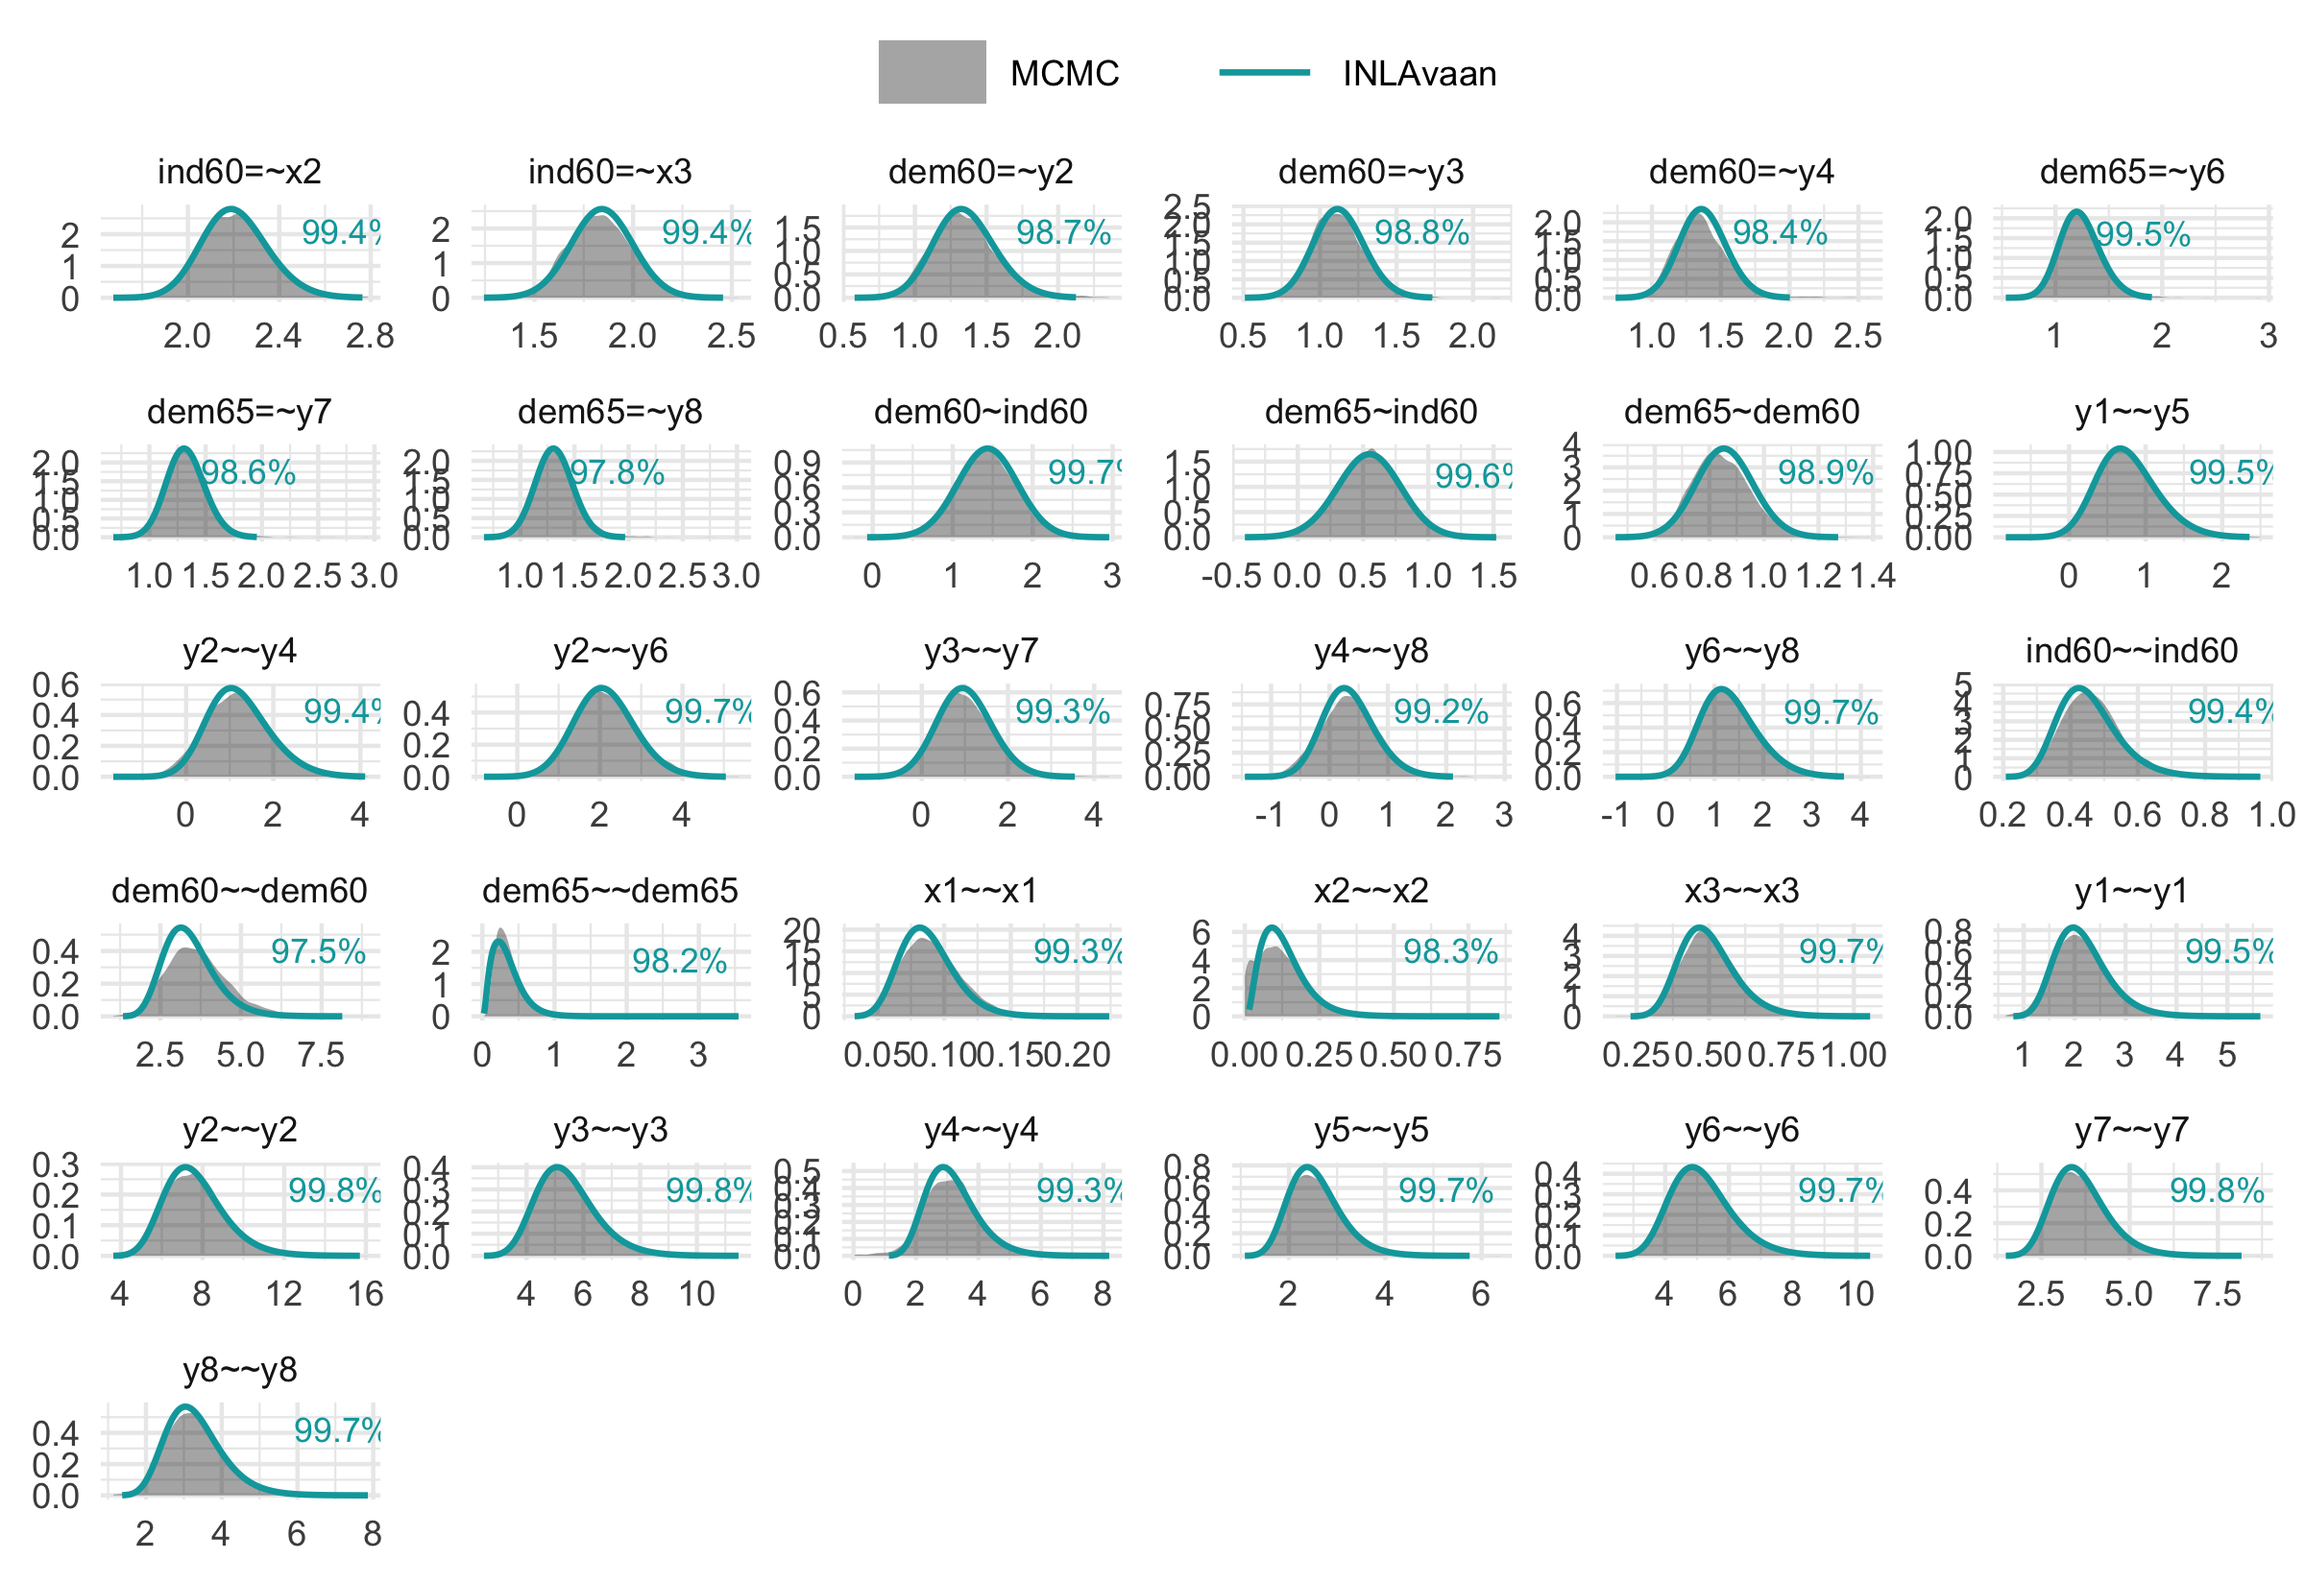
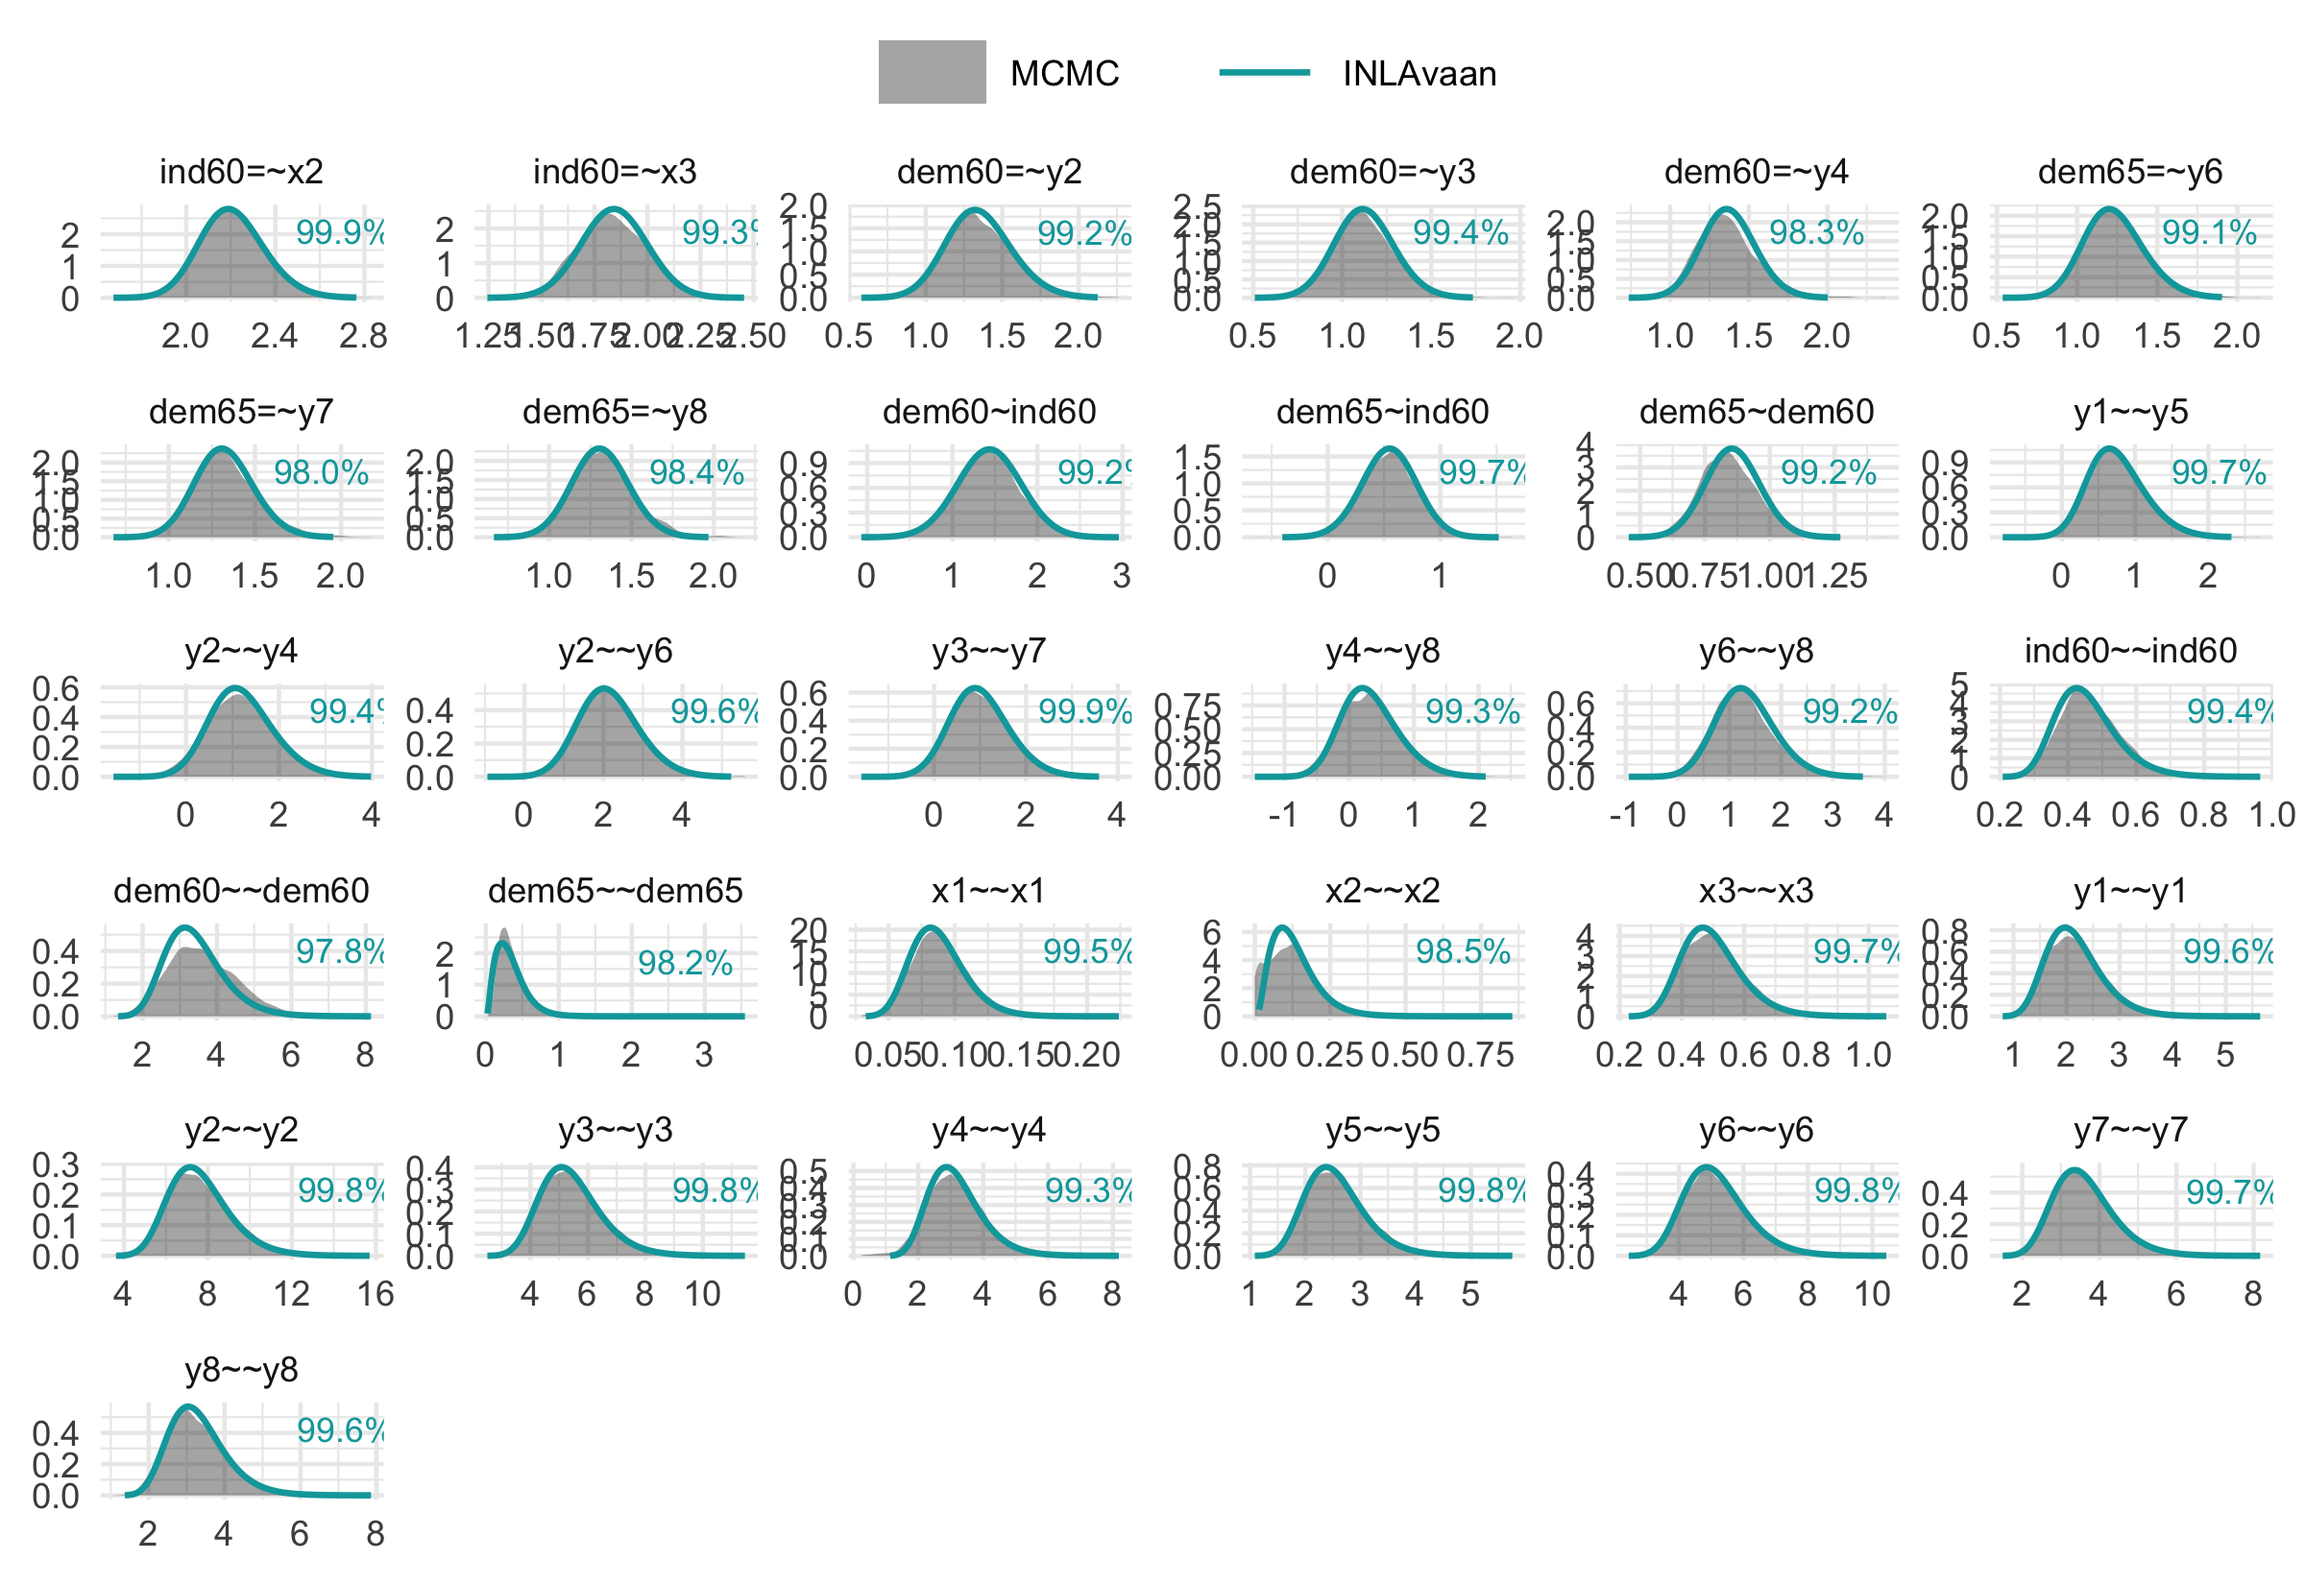
Update README

diff --git a/README.md b/README.md
@@ -64,39 +64,39 @@ utils::data("PoliticalDemocracy", package = "lavaan")
 fit <- asem(model, PoliticalDemocracy)
 #> ℹ Using MVN log-likelihood.
 #> ℹ Finding posterior mode.
-#> ✔ Finding posterior mode. [126ms]
+#> ✔ Finding posterior mode. [123ms]
 #> 
 #> ℹ Computing the Hessian.
-#> ✔ Computing the Hessian. [305ms]
+#> ✔ Computing the Hessian. [296ms]
 #> 
 #> ℹ Performing VB correction.
-#> ✔ Performing VB correction. [248ms]
+#> ✔ Performing VB correction. [244ms]
 #> 
 #> ℹ Using skew normal approximation.
 #> ⠙ Fitting skew normal to 0/31 marginals.
-#> ⠹ Fitting skew normal to 2/31 marginals.
-#> ⠸ Fitting skew normal to 5/31 marginals.
-#> ⠼ Fitting skew normal to 9/31 marginals.
-#> ⠴ Fitting skew normal to 12/31 marginals.
-#> ⠦ Fitting skew normal to 16/31 marginals.
-#> ⠧ Fitting skew normal to 20/31 marginals.
-#> ⠇ Fitting skew normal to 23/31 marginals.
-#> ⠏ Fitting skew normal to 26/31 marginals.
-#> ⠋ Fitting skew normal to 30/31 marginals.
+#> ⠹ Fitting skew normal to 3/31 marginals.
+#> ⠸ Fitting skew normal to 6/31 marginals.
+#> ⠼ Fitting skew normal to 10/31 marginals.
+#> ⠴ Fitting skew normal to 14/31 marginals.
+#> ⠦ Fitting skew normal to 17/31 marginals.
+#> ⠧ Fitting skew normal to 21/31 marginals.
+#> ⠇ Fitting skew normal to 24/31 marginals.
+#> ⠏ Fitting skew normal to 28/31 marginals.
+#> ⠋ Fitting skew normal to 31/31 marginals.
 #> ✔ Fitting skew normal to 31/31 marginals. [1.8s]
 #> 
-#> ℹ Sampling posterior covariances.
-#> ✔ Sampling posterior covariances. [116ms]
+#> ℹ Sampling covariances and defined parameters.
+#> ✔ Sampling covariances and defined parameters. [111ms]
 #> 
 #> ⠙ Computing ppp and DIC.
 #> ⠹ Computing ppp and DIC.
 #> ⠸ Computing ppp and DIC.
 #> ⠼ Computing ppp and DIC.
-#> ✔ Computing ppp and DIC. [1s]
+#> ✔ Computing ppp and DIC. [1.1s]
 #> 
 
 summary(fit)
-#> INLAvaan 0.2.0.9004 ended normally after 77 iterations
+#> INLAvaan 0.2.0.9006 ended normally after 77 iterations
 #> 
 #>   Estimator                                      BAYES
 #>   Optimization method                           NLMINB
@@ -107,12 +107,12 @@ summary(fit)
 #> Model Test (User Model):
 #> 
 #>    Marginal log-likelihood                   -1656.678 
-#>    PPP (Chi-square)                              0.467 
+#>    PPP (Chi-square)                              0.499 
 #> 
 #> Information Criteria:
 #> 
-#>    Deviance (DIC)                             3160.785 
-#>    Effective parameters (pD)                    31.691 
+#>    Deviance (DIC)                             3160.442 
+#>    Effective parameters (pD)                    31.519 
 #> 
 #> Parameter Estimates:
 #> 
@@ -120,60 +120,60 @@ summary(fit)
 #>    VB correction                                  TRUE
 #> 
 #> Latent Variables:
-#>                    Estimate       SD     2.5%    97.5%      KLD    Prior       
+#>                    Estimate       SD     2.5%    97.5%     NMAD    Prior       
 #>   ind60 =~                                                                     
 #>     x1                1.000                                                    
-#>     x2                2.208    0.145    1.940    2.511    0.079    normal(0,10)
-#>     x3                1.843    0.156    1.539    2.149    0.033    normal(0,10)
+#>     x2                2.208    0.145    1.940    2.511    0.35%    normal(0,10)
+#>     x3                1.843    0.156    1.539    2.149    0.19%    normal(0,10)
 #>   dem60 =~                                                                     
 #>     y1                1.000                                                    
-#>     y2                1.351    0.214    0.957    1.798    0.052    normal(0,10)
-#>     y3                1.126    0.166    0.811    1.463    0.026    normal(0,10)
-#>     y4                1.372    0.171    1.049    1.721    0.081    normal(0,10)
+#>     y2                1.351    0.214    0.957    1.798    0.76%    normal(0,10)
+#>     y3                1.126    0.166    0.811    1.463    0.25%    normal(0,10)
+#>     y4                1.372    0.171    1.049    1.721    0.18%    normal(0,10)
 #>   dem65 =~                                                                     
 #>     y5                1.000                                                    
-#>     y6                1.232    0.189    0.891    1.633    0.022    normal(0,10)
-#>     y7                1.324    0.170    1.006    1.673    0.021    normal(0,10)
-#>     y8                1.313    0.172    0.982    1.659    0.041    normal(0,10)
+#>     y6                1.232    0.189    0.891    1.633    0.91%    normal(0,10)
+#>     y7                1.324    0.170    1.006    1.673    0.39%    normal(0,10)
+#>     y8                1.313    0.172    0.982    1.659    0.12%    normal(0,10)
 #> 
 #> Regressions:
-#>                    Estimate       SD     2.5%    97.5%      KLD    Prior       
+#>                    Estimate       SD     2.5%    97.5%     NMAD    Prior       
 #>   dem60 ~                                                                      
-#>     ind60             1.436    0.373    0.705    2.168    0.001    normal(0,10)
+#>     ind60             1.436    0.373    0.705    2.168    0.08%    normal(0,10)
 #>   dem65 ~                                                                      
-#>     ind60             0.545    0.242    0.066    1.016    0.000    normal(0,10)
-#>     dem60             0.857    0.105    0.655    1.067    0.014    normal(0,10)
+#>     ind60             0.545    0.242    0.066    1.016    0.08%    normal(0,10)
+#>     dem60             0.857    0.105    0.655    1.067    0.31%    normal(0,10)
 #> 
 #> Covariances:
-#>                    Estimate       SD     2.5%    97.5%      KLD    Prior       
+#>                    Estimate       SD     2.5%    97.5%     NMAD    Prior       
 #>  .y1 ~~                                                                        
-#>    .y5                0.308    0.398    0.069    1.629    0.002       beta(1,1)
+#>    .y5                0.308    0.390    0.080    1.609    0.73%       beta(1,1)
 #>  .y2 ~~                                                                        
-#>    .y4                0.241    0.723   -0.039    2.793    0.008       beta(1,1)
-#>    .y6                0.348    0.732    0.760    3.635    0.005       beta(1,1)
+#>    .y4                0.241    0.693   -0.018    2.701    0.70%       beta(1,1)
+#>    .y6                0.348    0.772    0.753    3.784    2.89%       beta(1,1)
 #>  .y3 ~~                                                                        
-#>    .y7                0.211    0.639   -0.206    2.301    0.014       beta(1,1)
+#>    .y7                0.211    0.647   -0.168    2.374    0.64%       beta(1,1)
 #>  .y4 ~~                                                                        
-#>    .y8                0.098    0.446   -0.470    1.280    0.010       beta(1,1)
+#>    .y8                0.098    0.446   -0.445    1.303    0.83%       beta(1,1)
 #>  .y6 ~~                                                                        
-#>    .y8                0.309    0.585    0.309    2.600    0.005       beta(1,1)
+#>    .y8                0.309    0.565    0.298    2.517    1.31%       beta(1,1)
 #> 
 #> Variances:
-#>                    Estimate       SD     2.5%    97.5%      KLD    Prior       
-#>     ind60             0.455    0.090    0.309    0.660    0.009      gamma(1,1)
-#>    .dem60             3.407    0.791    2.131    5.213    0.040     gamma(1,.9)
-#>    .dem65             0.341    0.201    0.070    0.830    0.013     gamma(1,.5)
-#>    .x1                0.088    0.020    0.053    0.133    0.027 gamma(1,.5)[sd]
-#>    .x2                0.132    0.074    0.031    0.312    0.067 gamma(1,.5)[sd]
-#>    .x3                0.498    0.097    0.339    0.718    0.032 gamma(1,.5)[sd]
-#>    .y1                2.152    0.523    1.312    3.349    0.073 gamma(1,.5)[sd]
-#>    .y2                7.630    1.481    5.211   10.993    0.021 gamma(1,.5)[sd]
-#>    .y3                5.423    1.070    3.676    7.853    0.052 gamma(1,.5)[sd]
-#>    .y4                3.163    0.826    1.847    5.062    0.000 gamma(1,.5)[sd]
-#>    .y5                2.557    0.547    1.670    3.801    0.041 gamma(1,.5)[sd]
-#>    .y6                5.166    0.992    3.544    7.419    0.016 gamma(1,.5)[sd]
-#>    .y7                3.611    0.789    2.327    5.402    0.020 gamma(1,.5)[sd]
-#>    .y8                3.300    0.759    2.076    5.035    0.013 gamma(1,.5)[sd]
+#>                    Estimate       SD     2.5%    97.5%     NMAD    Prior       
+#>     ind60             0.455    0.090    0.309    0.660    0.38%      gamma(1,1)
+#>    .dem60             3.407    0.791    2.131    5.213    0.07%     gamma(1,.9)
+#>    .dem65             0.341    0.201    0.070    0.830    3.41%     gamma(1,.5)
+#>    .x1                0.088    0.020    0.053    0.133    1.26% gamma(1,.5)[sd]
+#>    .x2                0.132    0.074    0.031    0.312    4.45% gamma(1,.5)[sd]
+#>    .x3                0.498    0.097    0.339    0.718    0.19% gamma(1,.5)[sd]
+#>    .y1                2.152    0.523    1.312    3.349    0.27% gamma(1,.5)[sd]
+#>    .y2                7.630    1.481    5.211   10.993    0.26% gamma(1,.5)[sd]
+#>    .y3                5.423    1.070    3.676    7.853    0.21% gamma(1,.5)[sd]
+#>    .y4                3.163    0.826    1.847    5.062    0.43% gamma(1,.5)[sd]
+#>    .y5                2.557    0.547    1.670    3.801    0.05% gamma(1,.5)[sd]
+#>    .y6                5.166    0.992    3.544    7.419    0.32% gamma(1,.5)[sd]
+#>    .y7                3.611    0.789    2.327    5.402    0.18% gamma(1,.5)[sd]
+#>    .y8                3.300    0.759    2.076    5.035    0.14% gamma(1,.5)[sd]
 ```
 
 ## Validation against MCMC
@@ -469,7 +469,7 @@ install.packages(
 To cite package `{INLAvaan}` in publications use:
 
 > Jamil, H (2026). *INLAvaan: Bayesian structural equation modelling
-> with INLA*. R package version 0.2.0.9004. URL:
+> with INLA*. R package version 0.2.0.9006. URL:
 > <https://inlavaan.haziqj.ml/>
 
 A BibTeX entry for LaTeX users is:
@@ -479,7 +479,7 @@ A BibTeX entry for LaTeX users is:
     title = {INLAvaan: Bayesian structural equation modelling with INLA},
     author = {Haziq Jamil},
     year = {2026},
-    note = {R package version 0.2.0.9004},
+    note = {R package version 0.2.0.9006},
     url = {https://inlavaan.haziqj.ml/},
   }
 ```
